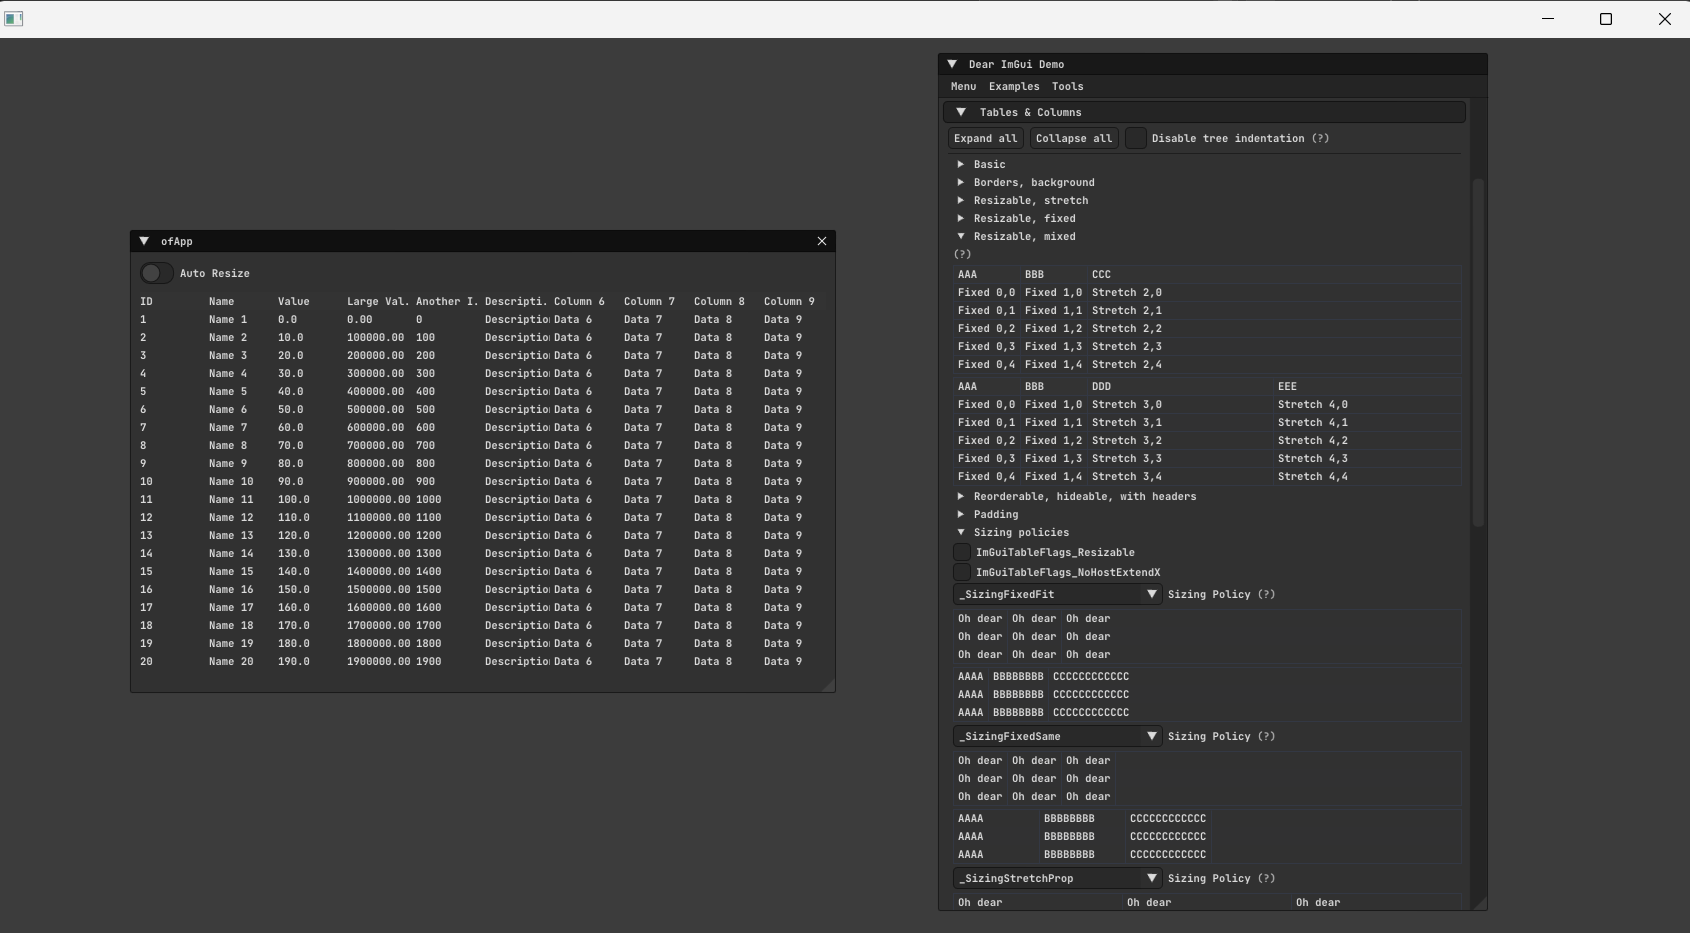
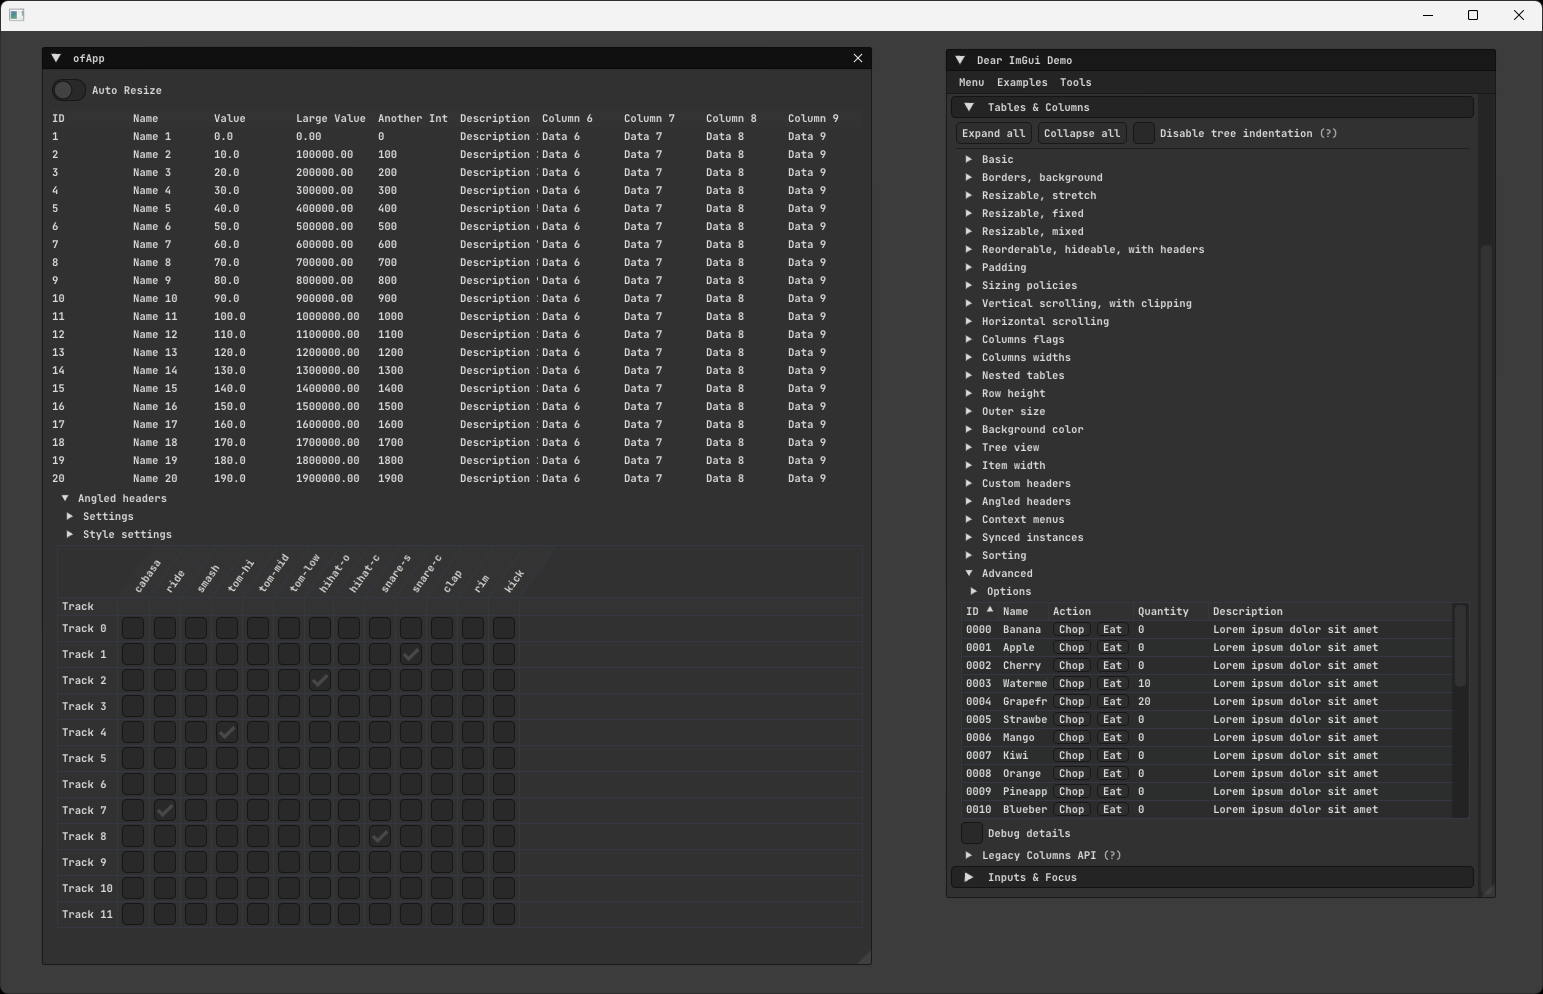
.

diff --git a/Examples_0_Basic/04_ImGui_RAW/src/ofApp.cpp b/Examples_0_Basic/04_ImGui_RAW/src/ofApp.cpp
@@ -3,7 +3,7 @@
 //--------------------------------------------------------------
 void ofApp::setup()
 {
-	// Fill data
+	// Fill table data
 	data.resize(20);
 	for (int i = 0; i < data.size(); ++i) {
 		data[i] = { i + 1, "Name " + std::to_string(i + 1), i * 10.0f, i * 1.0e5, i * 100, "Description " + std::to_string(i + 1) };
@@ -19,20 +19,23 @@ void ofApp::draw()
 	{
 		/* Put windows here */
 
-		if (ui.BeginWindow(bGui))
+		if (ui.BeginWindow(bGui)) // Handles windows management. No need to use RAW ImGui window/frame.
 		{
+			/* Put RAW Dear ImGui or custom ofxSurfingImGui widgets here. */
+
 			ui.AddAutoResizeToggle();
 			ui.AddSpacing();
 
-			/* Put RAW Dear ImGui widgets here. */
-			/* No need to handle the window as we are using ofxSurfingImGui */
-
+			// No need to handle the window as we are using ofxSurfingImGui
 			ShowExampleTable();
+
+			// Another RAW Dear ImGui 
+			ShowAngledHeaders();
 
 			ui.EndWindow();
 		}
 
-		// RAW Dear ImGui with his window management
+		// RAW Dear ImGui with his own window/frame management
 		ImGui::ShowDemoWindow();
 	}
 	ui.End();
@@ -47,8 +50,7 @@ void ofApp::keyPressed(int key)
 // Function to display a table with data
 //--------------------------------------------------------------
 void ofApp::ShowExampleTable() {
-	//// Dear ImGui window also usable
-	//// Begin the ImGui frame
+	//// Begin the ImGui frame/window
 	//ImGui::Begin("Example Table");
 
 	// Create a table with 10 columns
@@ -87,8 +89,81 @@ void ofApp::ShowExampleTable() {
 		ImGui::EndTable();
 	}
 
-	//// Dear ImGui window also usable
-	//// End the ImGui frame
+	//// End the ImGui frame/window
 	//ImGui::End();
 }
 
+// Another function to display a table with data
+//--------------------------------------------------------------
+void ofApp::ShowAngledHeaders() {
+	// Using those as a base value to create width/height that are factor of the size of our font
+	const float TEXT_BASE_WIDTH = ImGui::CalcTextSize("A").x;
+	const float TEXT_BASE_HEIGHT = ImGui::GetTextLineHeightWithSpacing();
+
+	if (ImGui::TreeNode("Angled headers"))
+	{
+		const char* column_names[] = { "Track", "cabasa", "ride", "smash", "tom-hi", "tom-mid", "tom-low", "hihat-o", "hihat-c", "snare-s", "snare-c", "clap", "rim", "kick" };
+		const int columns_count = IM_ARRAYSIZE(column_names);
+		const int rows_count = 12;
+
+		static ImGuiTableFlags table_flags = ImGuiTableFlags_SizingFixedFit | ImGuiTableFlags_ScrollX | ImGuiTableFlags_ScrollY | ImGuiTableFlags_BordersOuter | ImGuiTableFlags_BordersInnerH | ImGuiTableFlags_Hideable | ImGuiTableFlags_Resizable | ImGuiTableFlags_Reorderable | ImGuiTableFlags_HighlightHoveredColumn;
+		static ImGuiTableColumnFlags column_flags = ImGuiTableColumnFlags_AngledHeader | ImGuiTableColumnFlags_WidthFixed;
+		static bool bools[columns_count * rows_count] = {}; // Dummy storage selection storage
+		static int frozen_cols = 1;
+		static int frozen_rows = 2;
+		if (ImGui::TreeNode("Settings"))
+		{
+		ImGui::CheckboxFlags("_ScrollX", &table_flags, ImGuiTableFlags_ScrollX);
+		ImGui::CheckboxFlags("_ScrollY", &table_flags, ImGuiTableFlags_ScrollY);
+		ImGui::CheckboxFlags("_Resizable", &table_flags, ImGuiTableFlags_Resizable);
+		ImGui::CheckboxFlags("_NoBordersInBody", &table_flags, ImGuiTableFlags_NoBordersInBody);
+		ImGui::CheckboxFlags("_HighlightHoveredColumn", &table_flags, ImGuiTableFlags_HighlightHoveredColumn);
+		ImGui::SetNextItemWidth(ImGui::GetFontSize() * 8);
+		ImGui::SliderInt("Frozen columns", &frozen_cols, 0, 2);
+		ImGui::SetNextItemWidth(ImGui::GetFontSize() * 8);
+		ImGui::SliderInt("Frozen rows", &frozen_rows, 0, 2);
+		ImGui::CheckboxFlags("Disable header contributing to column width", &column_flags, ImGuiTableColumnFlags_NoHeaderWidth);
+		ImGui::TreePop();
+		}
+
+		if (ImGui::TreeNode("Style settings"))
+		{
+			ImGui::SameLine();
+			//HelpMarker("Giving access to some ImGuiStyle value in this demo for convenience.");
+			ImGui::SetNextItemWidth(ImGui::GetFontSize() * 8);
+			ImGui::SliderAngle("style.TableAngledHeadersAngle", &ImGui::GetStyle().TableAngledHeadersAngle, -50.0f, +50.0f);
+			ImGui::SetNextItemWidth(ImGui::GetFontSize() * 8);
+			ImGui::SliderFloat2("style.TableAngledHeadersTextAlign", (float*)&ImGui::GetStyle().TableAngledHeadersTextAlign, 0.0f, 1.0f, "%.2f");
+			ImGui::TreePop();
+		}
+
+		if (ImGui::BeginTable("table_angled_headers", columns_count, table_flags, ImVec2(0.0f, TEXT_BASE_HEIGHT * 12)))
+		{
+			ImGui::TableSetupColumn(column_names[0], ImGuiTableColumnFlags_NoHide | ImGuiTableColumnFlags_NoReorder);
+			for (int n = 1; n < columns_count; n++)
+				ImGui::TableSetupColumn(column_names[n], column_flags);
+			ImGui::TableSetupScrollFreeze(frozen_cols, frozen_rows);
+
+			ImGui::TableAngledHeadersRow(); // Draw angled headers for all columns with the ImGuiTableColumnFlags_AngledHeader flag.
+			ImGui::TableHeadersRow();       // Draw remaining headers and allow access to context-menu and other functions.
+			for (int row = 0; row < rows_count; row++)
+			{
+				ImGui::PushID(row);
+				ImGui::TableNextRow();
+				ImGui::TableSetColumnIndex(0);
+				ImGui::AlignTextToFramePadding();
+				ImGui::Text("Track %d", row);
+				for (int column = 1; column < columns_count; column++)
+					if (ImGui::TableSetColumnIndex(column))
+					{
+						ImGui::PushID(column);
+						ImGui::Checkbox("", &bools[row * columns_count + column]);
+						ImGui::PopID();
+					}
+				ImGui::PopID();
+			}
+			ImGui::EndTable();
+		}
+		ImGui::TreePop();
+	}
+}

diff --git a/Examples_0_Basic/04_ImGui_RAW/src/ofApp.h b/Examples_0_Basic/04_ImGui_RAW/src/ofApp.h
@@ -14,6 +14,7 @@ public:
 	ofxSurfingGui ui;
 	ofParameter<bool> bGui{ "ofApp", true };
 
+	void ShowExampleTable();
 	struct Data {
 		int id; 
 		std::string name; 
@@ -24,5 +25,5 @@ public:
 	};
 	std::vector<Data> data;
 
-	void ShowExampleTable();
+	void ShowAngledHeaders();
 };
